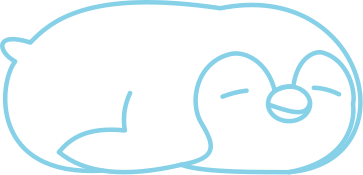
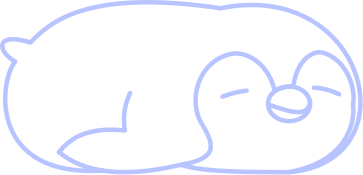
Regenerate the theme from the current wallpaper palette

Changed region(s): [[0.0, 0.0, 1.0, 1.0], [0.6061, 0.4857, 0.697, 0.5714]]

diff --git a/swaync/tokens/variables.css b/swaync/tokens/variables.css
@@ -2,10 +2,10 @@
 
 * {
   /* Backgrounds */
-  --bg-panel:          #171c1e;
-  --bg-widget:         #1b2022;
-  --bg-tile:           #252b2d;
-  --bg-tile-hover:     #303638;
+  --bg-panel:          #1a1b21;
+  --bg-widget:         #1f1f25;
+  --bg-tile:           #292a2f;
+  --bg-tile-hover:     #34343a;
   --bg-critical:       #93000a;
   --bg-critical-hover: #93000a;
 
@@ -14,27 +14,27 @@
   --shadow-critical:   #93000a;
 
   /* Buttons */
-  --btn-on:            #86d1e8;
-  --btn-off:           #303638;
+  --btn-on:            #b8c4ff;
+  --btn-off:           #34343a;
 
   /* Accent (primary) */
-  --accent:            #86d1e8;
-  --on-accent:         #003641;
-  --accent-dim:        #004e5e;
-  --accent-hover:      #86d1e8;
+  --accent:            #b8c4ff;
+  --on-accent:         #1f2d61;
+  --accent-dim:        #364379;
+  --accent-hover:      #b8c4ff;
 
   /* Hover */
-  --hover-dim:         #303638;
+  --hover-dim:         #34343a;
 
   /* Borders */
-  --border-subtle:     #40484b;
-  --border-glass:      #899296;
+  --border-subtle:     #45464f;
+  --border-glass:      #90909a;
 
   /* Text */
-  --text-primary:      #dee3e6;
-  --text-secondary:    #bfc8cb;
-  --text-dim:          #bfc8cb;
-  --text-hover:        #dee3e6;
+  --text-primary:      #e3e1e9;
+  --text-secondary:    #c6c5d0;
+  --text-dim:          #c6c5d0;
+  --text-hover:        #e3e1e9;
 
   /* Error text */
   --error-text:        #ffdad6;
